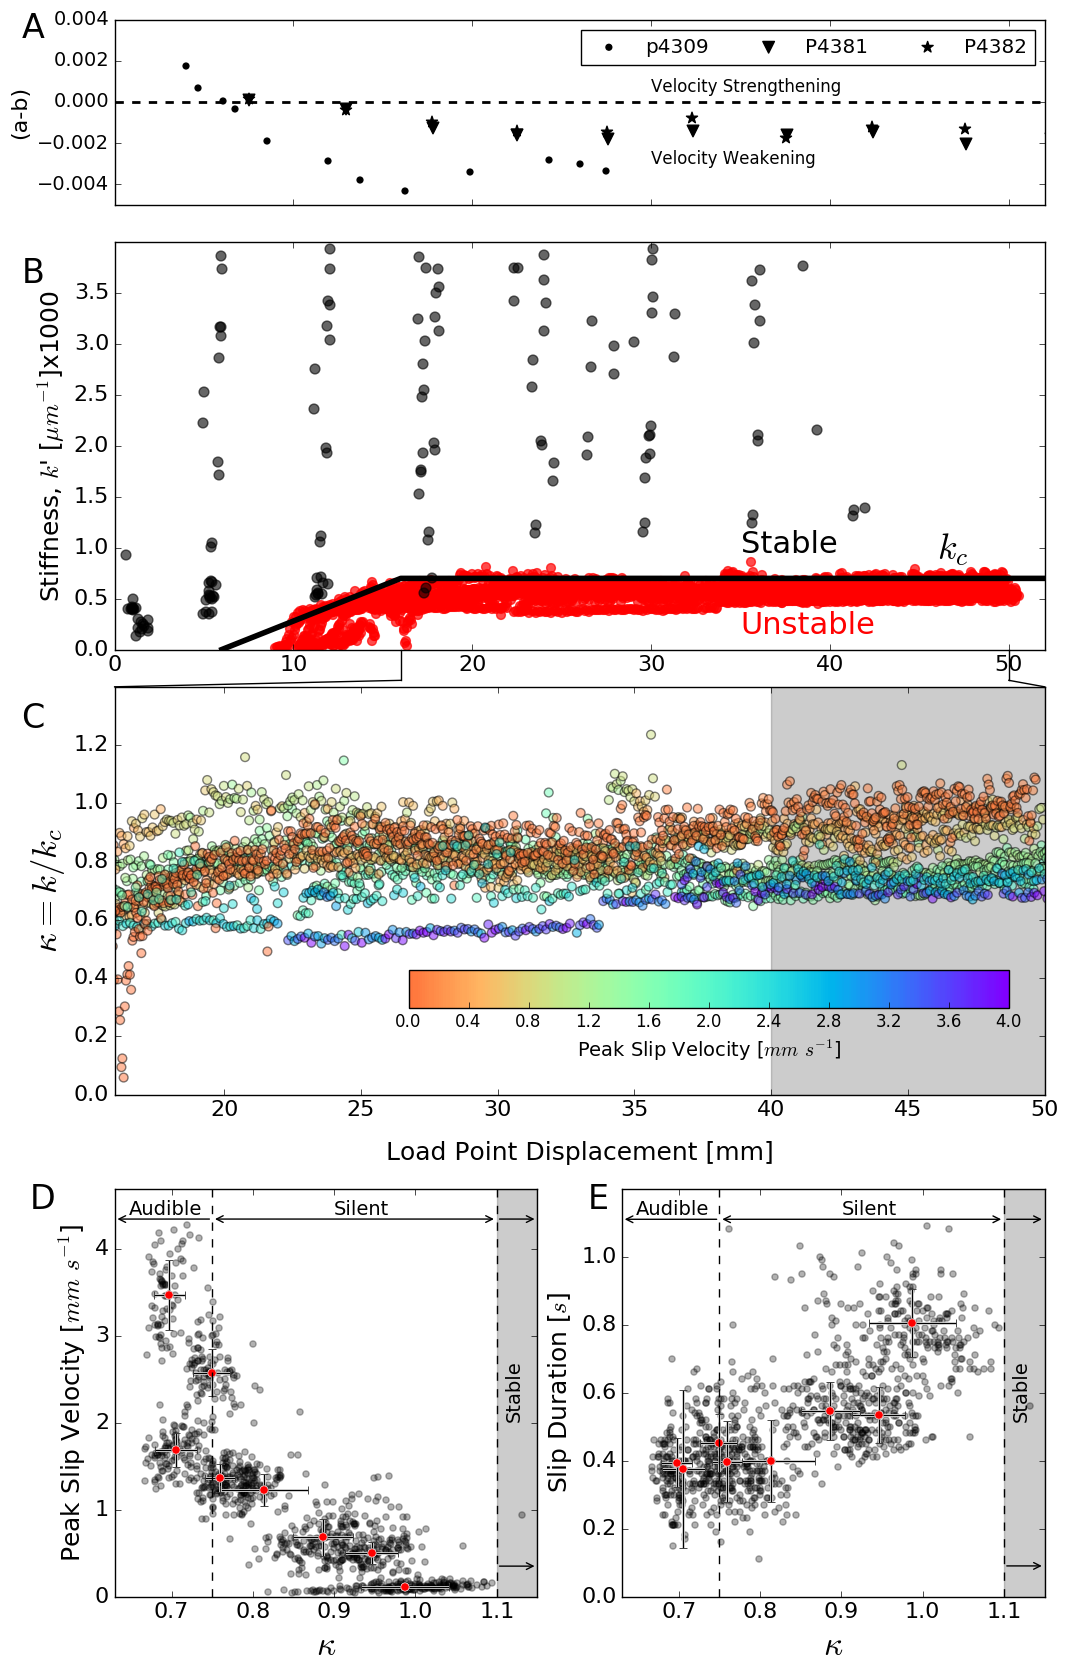
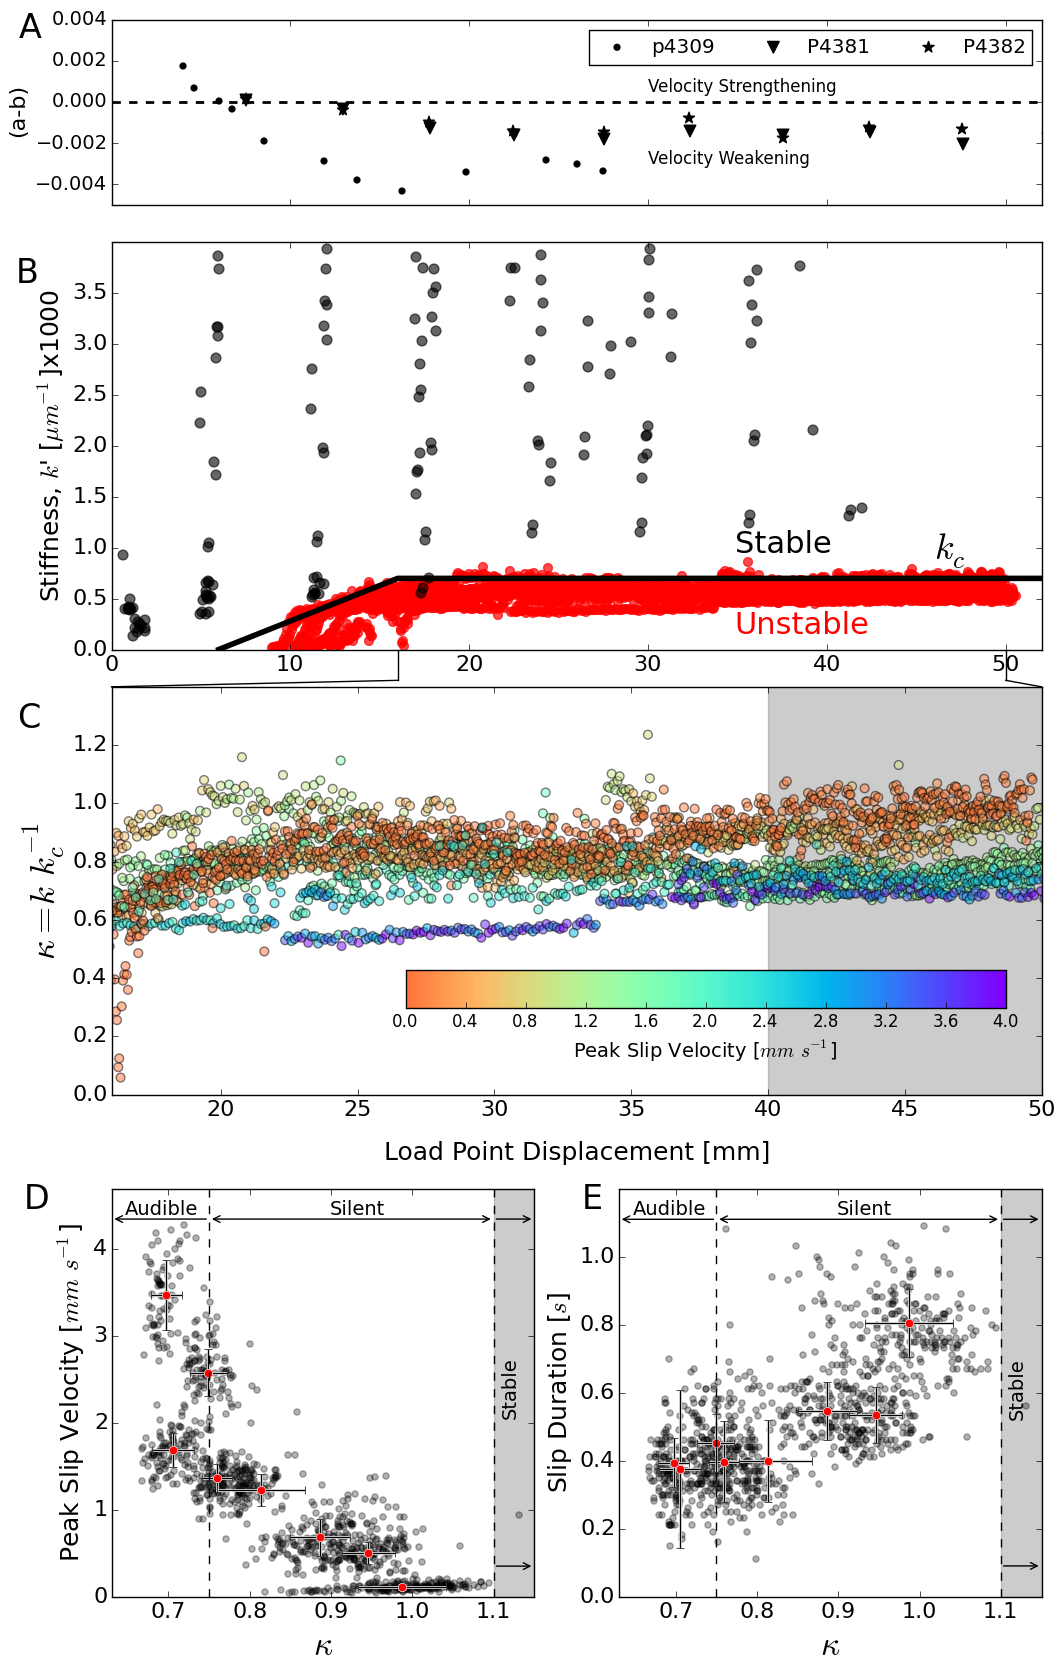
Fix remaining k/kc to fit journal style

diff --git a/Figures/FIG3/make_final_plot.py b/Figures/FIG3/make_final_plot.py
@@ -310,7 +310,7 @@ ax2.text(46,0.88,r'$k_c$',fontsize=26,color='k')
 
 # Set labels and tick sizes
 ax3.set_xlabel(r'Load Point Displacement [mm]',fontsize=18,labelpad=15)
-ax3.set_ylabel(r'$\kappa = k/k_c$',fontsize=25)
+ax3.set_ylabel(r'$\kappa = k$ $k_c^{-1}$',fontsize=25)
 ax3.tick_params(axis='both', which='major', labelsize=16)
 
 # Turns off chart clutter
